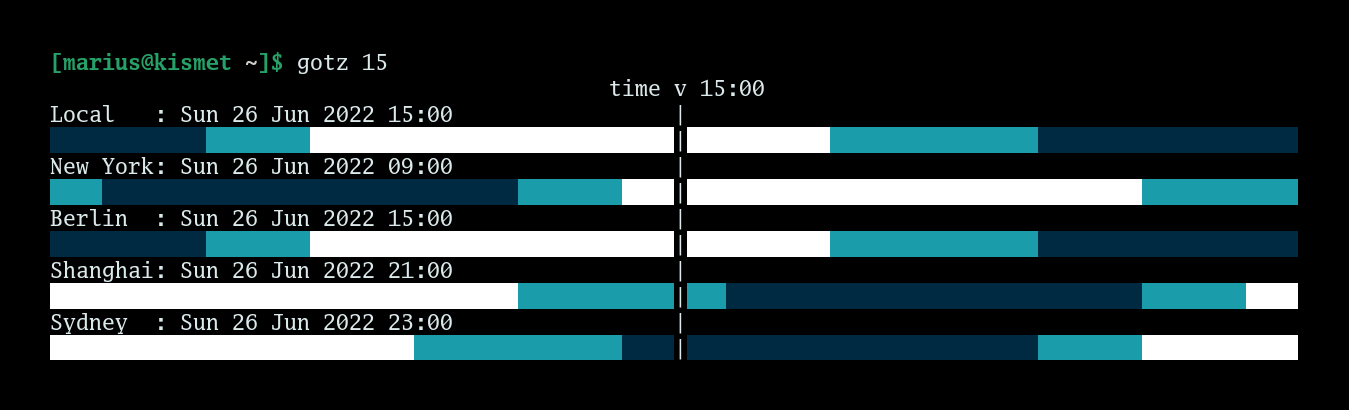
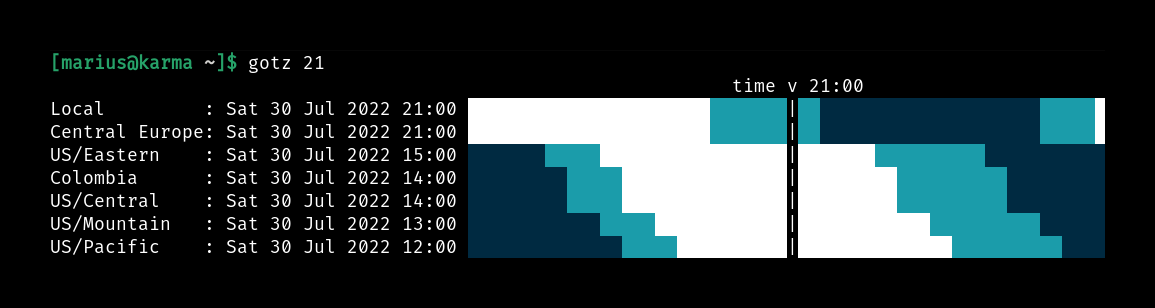
Updating readme for inline

diff --git a/README.md b/README.md
@@ -29,7 +29,7 @@ gotz
 Show arbitrary time:
 
 ```bash
-gotz 15
+gotz 21
 ```
 
 ![preview](material/screenshot/gotz-15.png)
@@ -40,7 +40,7 @@ Show arbitrary time using different timezone (index based):
 gotz 15@1
 ```
 
-![preview](material/screenshot/gotz-15-1.png)
+![preview](material/screenshot/gotz-15-2.png)
 
 Time can be one of the following formats:
 
@@ -63,6 +63,8 @@ gotz --live true
 ```
 
 ![preview](material/screenshot/gotz-live.png)
+
+(above also uses option `--inline false`)
 
 ## Basic configuration
 
@@ -157,6 +159,8 @@ The configuration is stored in `$XDG_CONFIG_HOME/gotz/config.json` (usually `~/.
     "tics": false,
     // Indicates whether to stretch across the full terminal width (causes inhomogeneous segment lengths)
     "stretch": true,
+    // Inline indicates whether location and time info will be plotted on one line with the bars.
+    "inline": true,
     // Indicates whether to colorize the blocks
     "hours12": false,
     // Indicates whether to use 12-hour format
